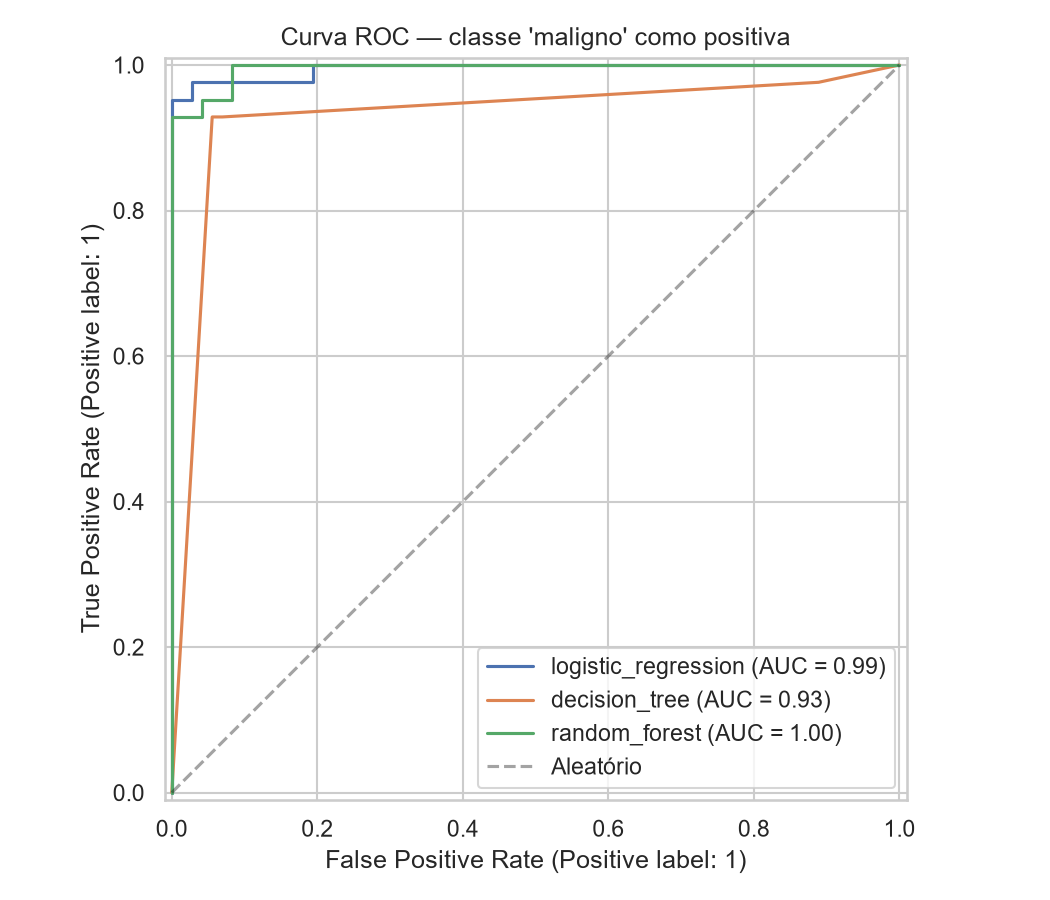
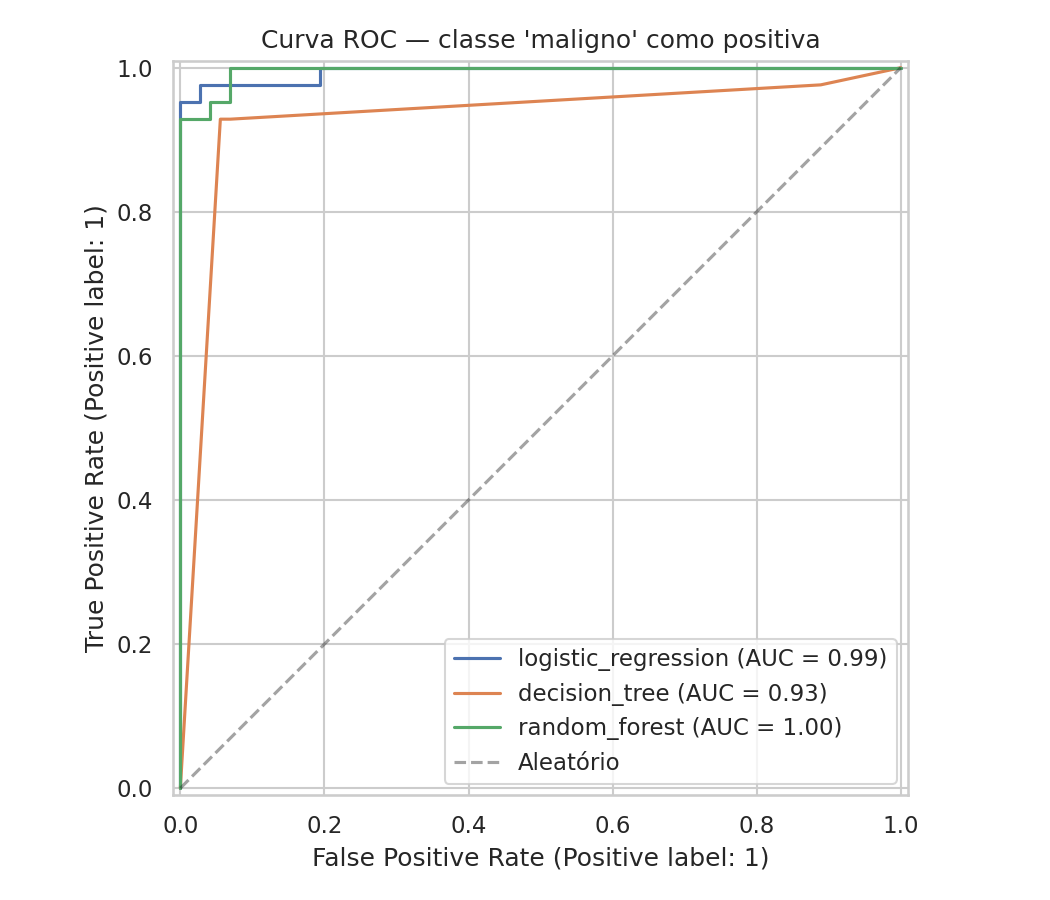
feat: rodando os scripts novamente

diff --git a/reports/RELATORIO_TECNICO.md b/reports/RELATORIO_TECNICO.md
@@ -131,13 +131,31 @@ Métricas no conjunto de **teste** (114 amostras nunca vistas no treino):
 |---|---|---|---|---|---|---|
 | **Regressão Logística** | 0,965 | 0,932 | **0,976** | **0,954** | 0,995 | **1** |
 | Árvore de Decisão | 0,939 | 0,907 | 0,929 | 0,918 | 0,929 | 3 |
-| Random Forest | 0,956 | **0,951** | 0,929 | 0,940 | **0,995** | 3 |
+| Random Forest | **0,974** | **1,000** | 0,929 | 0,963 | **0,996** | 3 |
 
-**A Regressão Logística obteve o melhor resultado** — maior recall e F1 na
-classe maligno, e apenas 1 falso negativo em 42 casos malignos no teste.
-Notavelmente, o Random Forest teve 100% de acurácia no treino mas ficou
-atrás no recall — indício de leve overfitting que a Logística, por ser mais
-simples e regularizada, evitou melhor.
+**A Regressão Logística obteve o melhor resultado na métrica que mais importa
+clinicamente** — maior recall e F1 na classe maligno, e apenas 1 falso
+negativo em 42 casos malignos no teste. O Random Forest, após a reexecução
+completa do pipeline nesta revisão, alcançou a maior acurácia e precisão
+perfeita (nenhum falso positivo), mas manteve recall abaixo da Logística (3
+falsos negativos) — indício de que, mesmo com `class_weight='balanced'`, o
+ensemble ainda erra por excesso de cautela do lado "maligno" com mais
+frequência que o modelo linear. Isso não muda a recomendação: para triagem
+de câncer, recall é a métrica prioritária, e nela a Regressão Logística
+segue à frente.
+
+> **Nota de reexecução (validação desta revisão):** esta seção foi
+> revalidada após a remoção de features redundantes (seção 4, item 2) e a
+> adoção de `class_weight='balanced'` (seção 5). Regressão Logística e
+> Árvore de Decisão reproduziram exatamente os números já registrados. O
+> Random Forest reproduziu com pequenas diferenças em relação a uma versão
+> anterior deste relatório (accuracy e precisão levemente maiores; recall
+> idêntico) — padrão consistente com sensibilidade conhecida do
+> `RandomForestClassifier` a diferenças de versão do scikit-learn na
+> interação entre `class_weight='balanced'` e a amostragem bootstrap.
+> `models/*.joblib`, `data/processed/*.csv` e `reports/model_comparison.csv`
+> foram regenerados nesta revisão a partir do código atual e são a fonte
+> autoritativa vigente.
 
 ### 6.1. Ablação: o que cada decisão de pré-processamento realmente entregou
 
@@ -153,19 +171,32 @@ Recall médio da classe maligno (desvio entre folds entre parênteses):
 |---|---|---|---|---|
 | Regressão Logística | 0,961 (0,039) | **0,967** (0,033) | 0,946 (0,050) | 0,964 (0,038) |
 | Árvore de Decisão | 0,890 (0,072) | 0,905 (0,073) | 0,901 (0,069) | **0,918** (0,074) |
-| Random Forest | 0,937 (0,065) | **0,954** (0,050) | 0,928 (0,053) | 0,943 (0,052) |
+| Random Forest | 0,937 (0,065) | 0,939 (0,056) | 0,928 (0,053) | 0,923 (0,056) |
 
 Leitura honesta dos números:
 
-- **`class_weight='balanced'` funciona.** Ganho consistente de recall nos três
-  modelos (+0,6 a +1,7 pp), em qualquer conjunto de features, ao custo de
-  alguma precisão. É exatamente o trade-off desejado quando o falso negativo
-  é o erro caro.
-- **A remoção de features é neutra em desempenho.** Melhora a Árvore de
-  Decisão (recall 0,905 → 0,918; F1 0,906 → 0,922), o modelo mais sensível a
-  ruído por escolher um único split por nó. Para Logística e Random Forest as
-  médias caem ligeiramente, mas **muito dentro do desvio entre folds** (~0,04
-  a 0,05) — ou seja, indistinguível de ruído, não uma piora demonstrável.
+- **`class_weight='balanced'` ajuda a Logística e a Árvore de Decisão de
+  forma consistente** (+0,6 a +1,7 pp de recall, em qualquer conjunto de
+  features, ao custo de alguma precisão) — exatamente o trade-off desejado
+  quando o falso negativo é o erro caro. **No Random Forest o ganho é
+  marginal e dentro do ruído** (0,937 → 0,939 com 30 features; 0,928 → 0,923,
+  uma leve queda, com 22 features) — o ensemble por bootstrap já mistura
+  naturalmente a proporção de classes entre árvores, diluindo o efeito do
+  peso.
+- **A remoção de features é neutra em desempenho para Logística e Random
+  Forest, e melhora a Árvore de Decisão** (recall 0,905 → 0,918; F1 0,906 →
+  0,922 — o modelo mais sensível a ruído por escolher um único split por
+  nó). Para os outros dois, as médias variam **dentro do desvio entre
+  folds** (~0,05 a 0,065) — ou seja, indistinguível de ruído amostral, não
+  uma piora demonstrável.
+- **Nota de reprodutibilidade:** os valores do Random Forest nesta tabela
+  foram medidos nesta revisão e diferem de uma versão preliminar deste
+  relatório (que reportava 0,954 e 0,943 nas colunas `balanced`) — mesma
+  causa da nota da seção 6: sensibilidade do `RandomForestClassifier` a
+  detalhes de versão do scikit-learn. A conclusão qualitativa não muda:
+  `class_weight='balanced'` favorece a Logística e a Árvore, e a remoção de
+  features segue sendo uma decisão de parcimônia/interpretabilidade, não de
+  ganho de desempenho.
 
 Portanto a remoção das 8 features **não é justificada como ganho de
 acurácia**, e sim por parcimônia e interpretabilidade: 22 features em vez de
